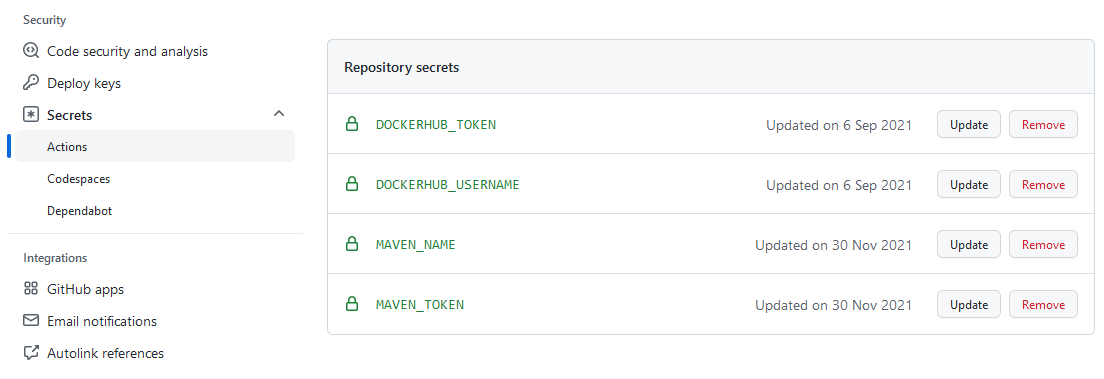
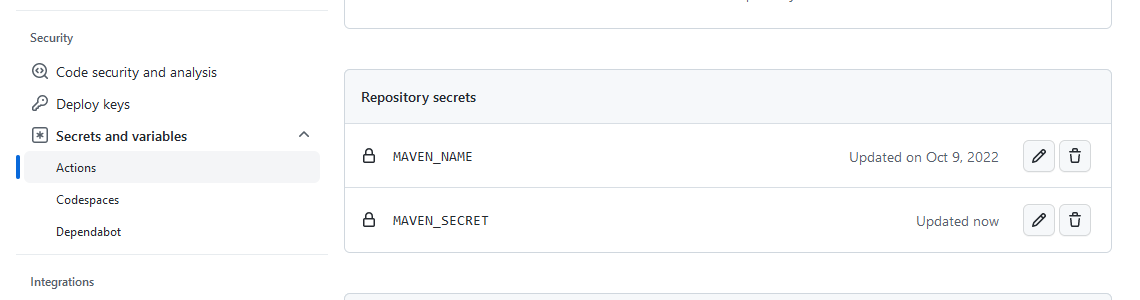
GH-1737 Update GitHub Actions guide for Reposilite 3.3.2

diff --git a/reposilite-site/data/guides/integrations/github.md b/reposilite-site/data/guides/integrations/github.md
@@ -7,7 +7,7 @@ title: GitHub
 
 Before you can start working with [GitHub Actions](https://github.com/features/actions), 
 you have to add access token to your environment.
-You can do this in `Your repository -> Settings -> Security -> Actions`:
+You can do this in `Your repository -> Settings -> Security -> Secrets and variables -> Actions`:
 
 ![GitHub Actions :: Secret](/images/guides/github-actions-secrets.png)
 
@@ -39,8 +39,8 @@ jobs:
       - name: Publish with Gradle
         run: ./gradlew build publish
         env:
-          MAVEN_NAME: ${{ secrets.MAVEN_NAME }} # token
-          MAVEN_TOKEN: ${{ secrets.MAVEN_TOKEN }} # password
+          MAVEN_NAME: ${{ secrets.MAVEN_NAME }} # token name
+          MAVEN_SECRET: ${{ secrets.MAVEN_SECRET }} # token secret (password)
 ```
 
 You can find full list of available events in GitHub Actions documentation:
@@ -59,7 +59,7 @@ I can recommend [s4u/maven-settings-action](https://github.com/s4u/maven-setting
       [{
         "id": "reposilite-repository",
         "username": "${{ secrets.MAVEN_NAME }}",
-        "password": "${{ secrets.MAVEN_TOKEN }}"
+        "password": "${{ secrets.MAVEN_SECRET }}"
       }]
 ```
 
